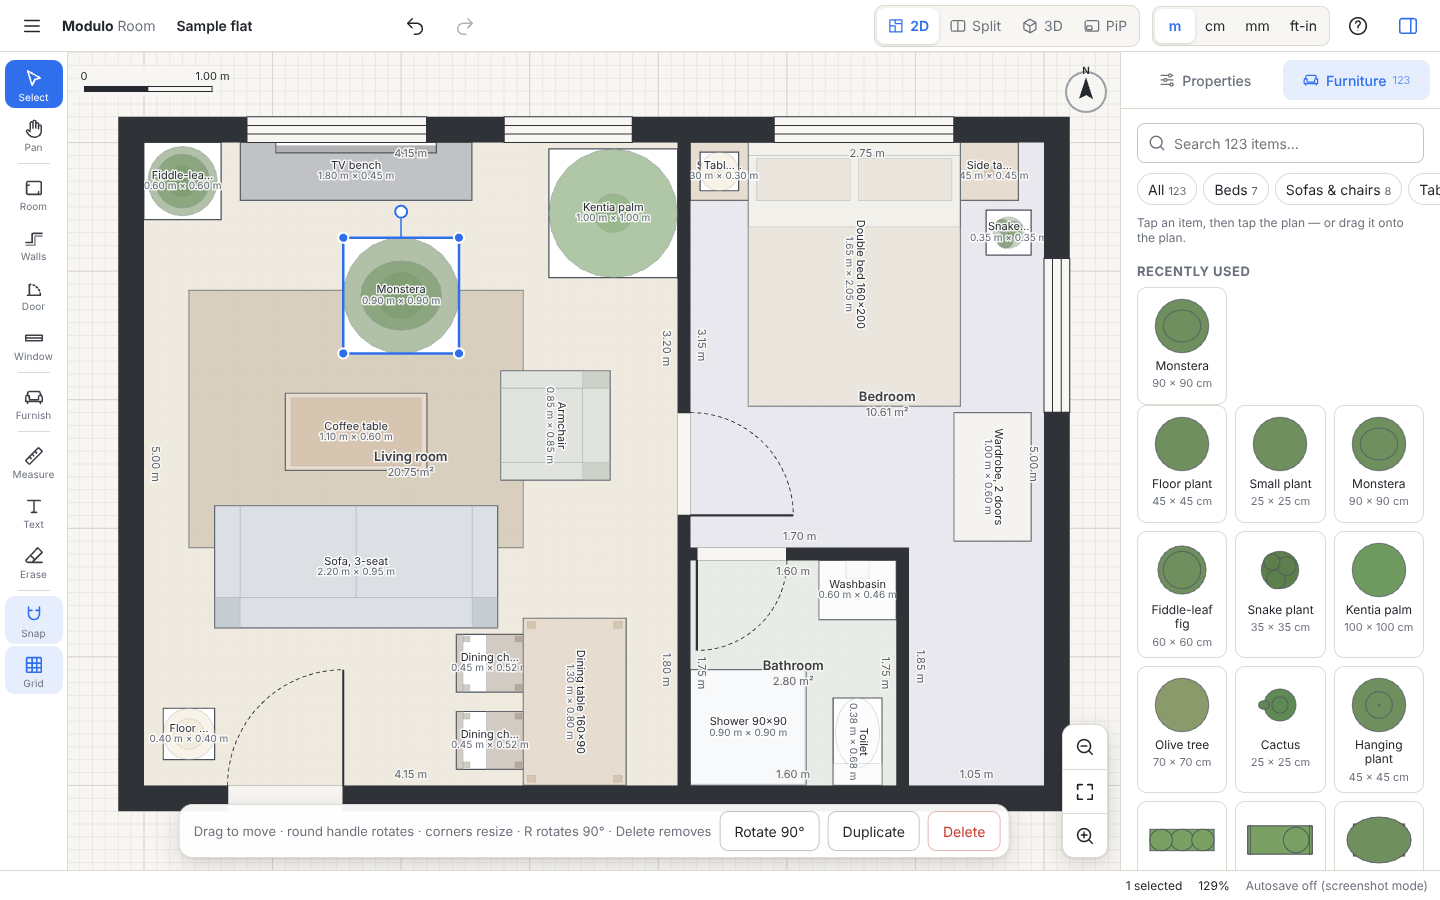
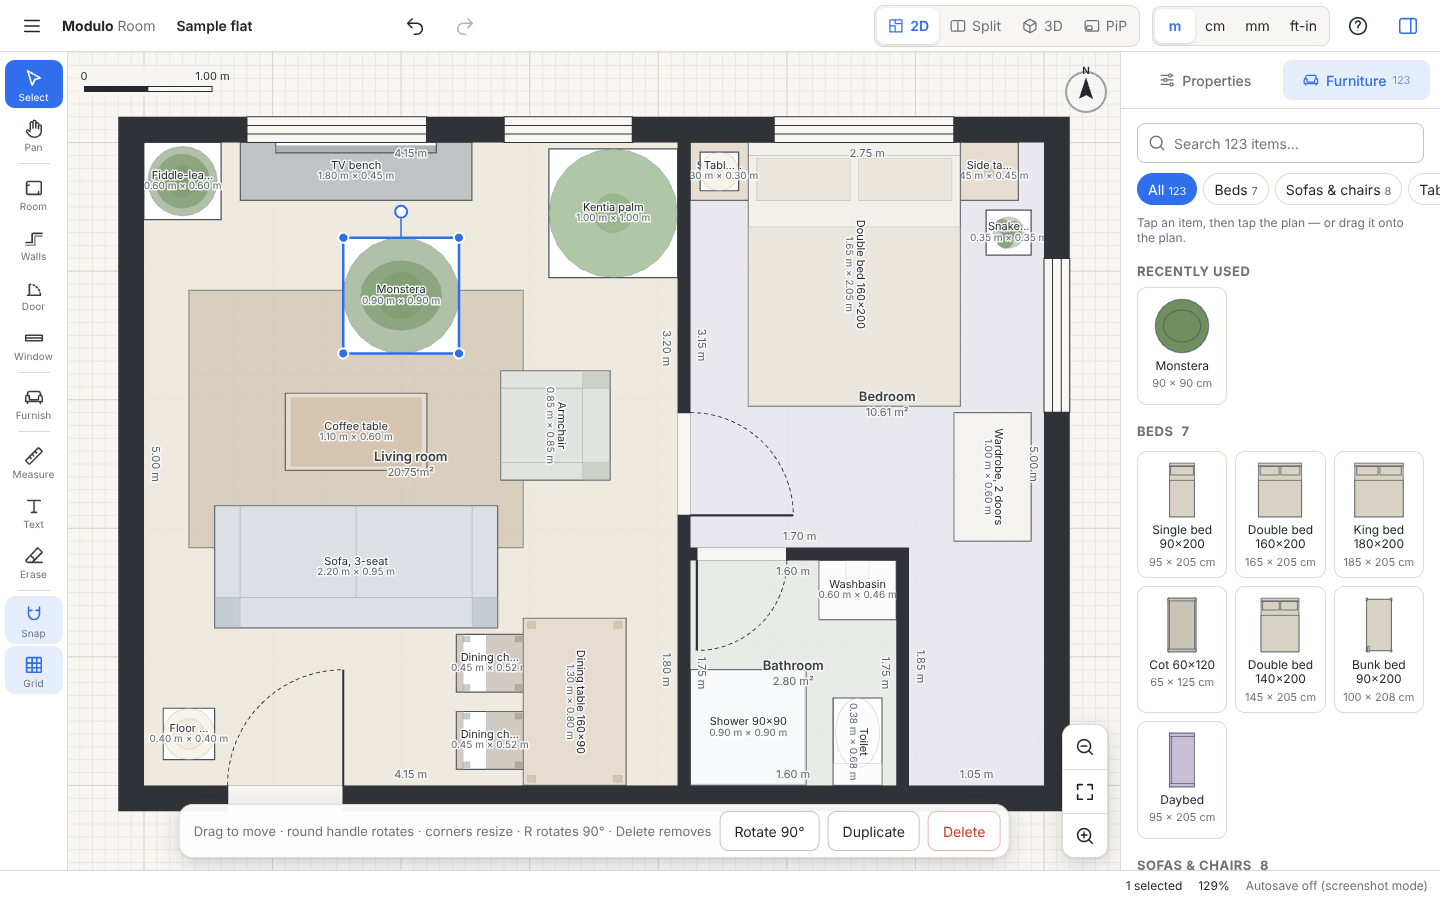
Catalog: show 'Recently used' only in the All view, not inside a category
Claude-Session: https://claude.ai/code/session_01FXBF7kgExiAhguf9kG3WxT

Changed region(s): [[0.7812, 0.4667, 1.0, 0.9644], [0.7812, 0.1867, 0.8438, 0.2489]]

diff --git a/tests/e2e/tools.spec.ts b/tests/e2e/tools.spec.ts
@@ -106,6 +106,12 @@ test('furniture tab: filter plants, drag a plant onto the plan, recently used ap
   const placed = items.find((i) => i.catalogId === 'plant-monstera')!;
   expect(Math.abs(placed.x - 2000)).toBeLessThan(20);
   await page.getByTestId('tab-furniture').click();
+  await page.getByRole('tab', { name: /^All/ }).click();
   await expect(page.locator('.catalog h3').first()).toHaveText(/Recently used/);
+  // inside a category only that category's items show — no "Recently used" row
+  await page.getByRole('tab', { name: /^Beds/ }).click();
+  await expect(page.locator('.catalog h3', { hasText: 'Recently used' })).toHaveCount(0);
+  await expect(page.locator('.catalog-grid [data-catalog-id="plant-monstera"]')).toHaveCount(0);
+  await page.getByRole('tab', { name: /^All/ }).click();
   await page.screenshot({ path: 'screenshots/p1-catalog-plants-desktop.png' });
 });

diff --git a/src/ui/inspector.ts b/src/ui/inspector.ts
@@ -143,7 +143,7 @@ export function catalogPanel(ctx: AppCtx): TemplateResult {
           </p>`
     }
     ${
-      recent.length && !q
+      recent.length && grouped
         ? html`<h3>Recently used</h3>
             <div class="catalog-grid">${recent.slice(0, 4).map((e) => card(ctx, e))}</div>`
         : nothing
